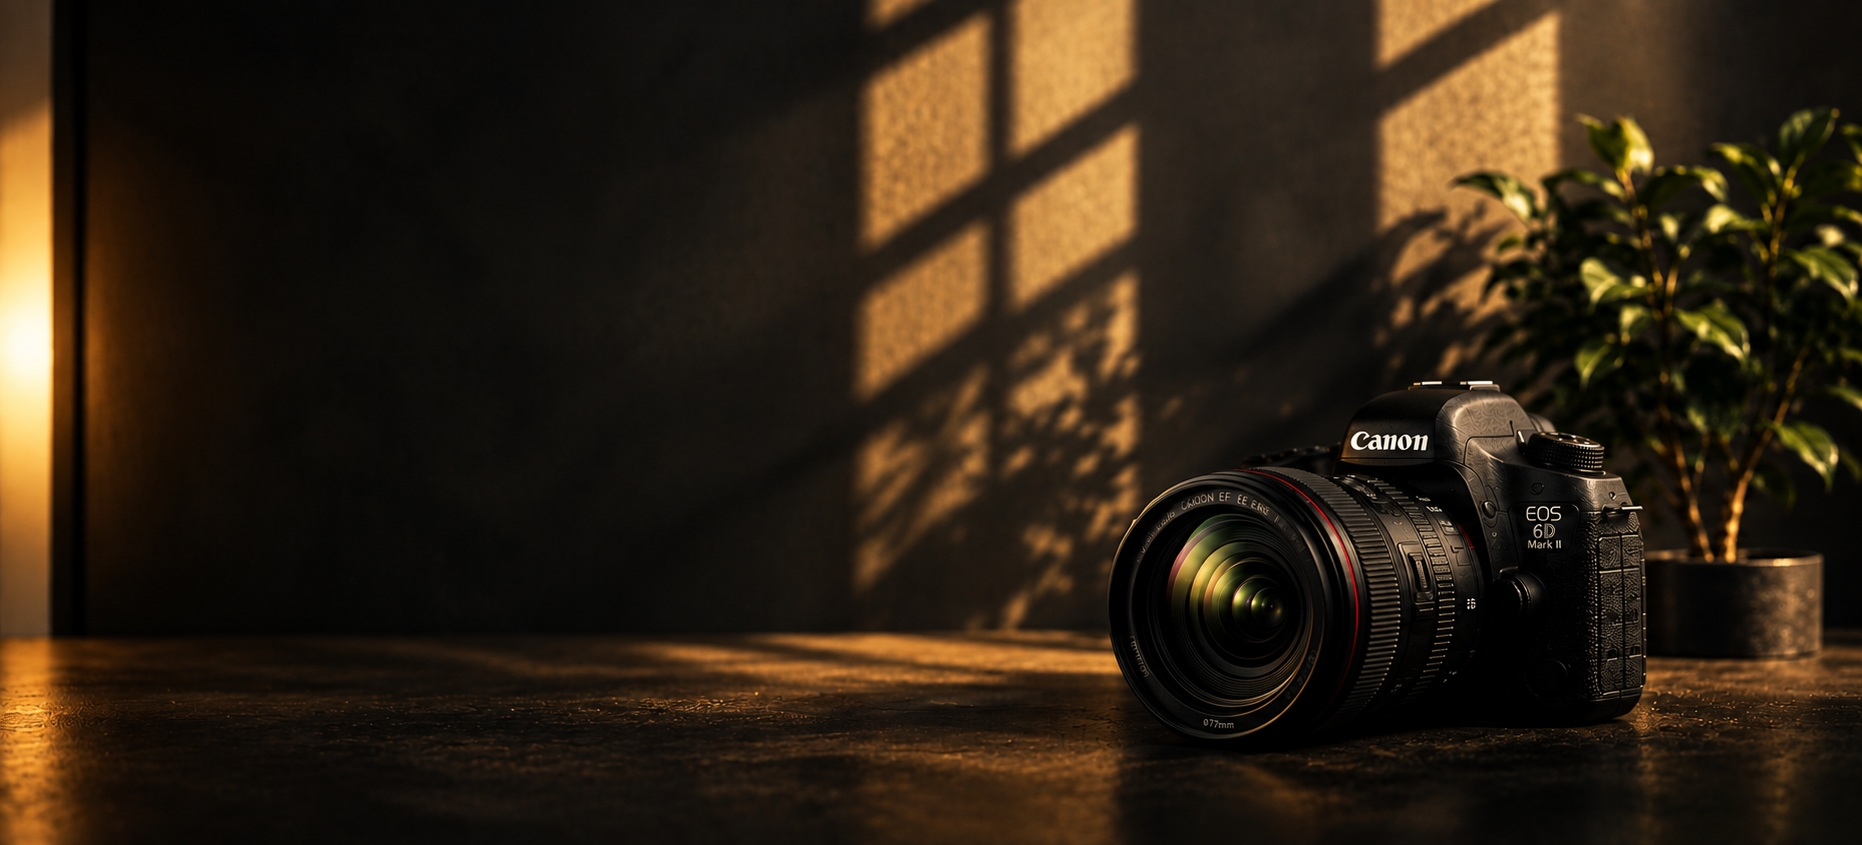
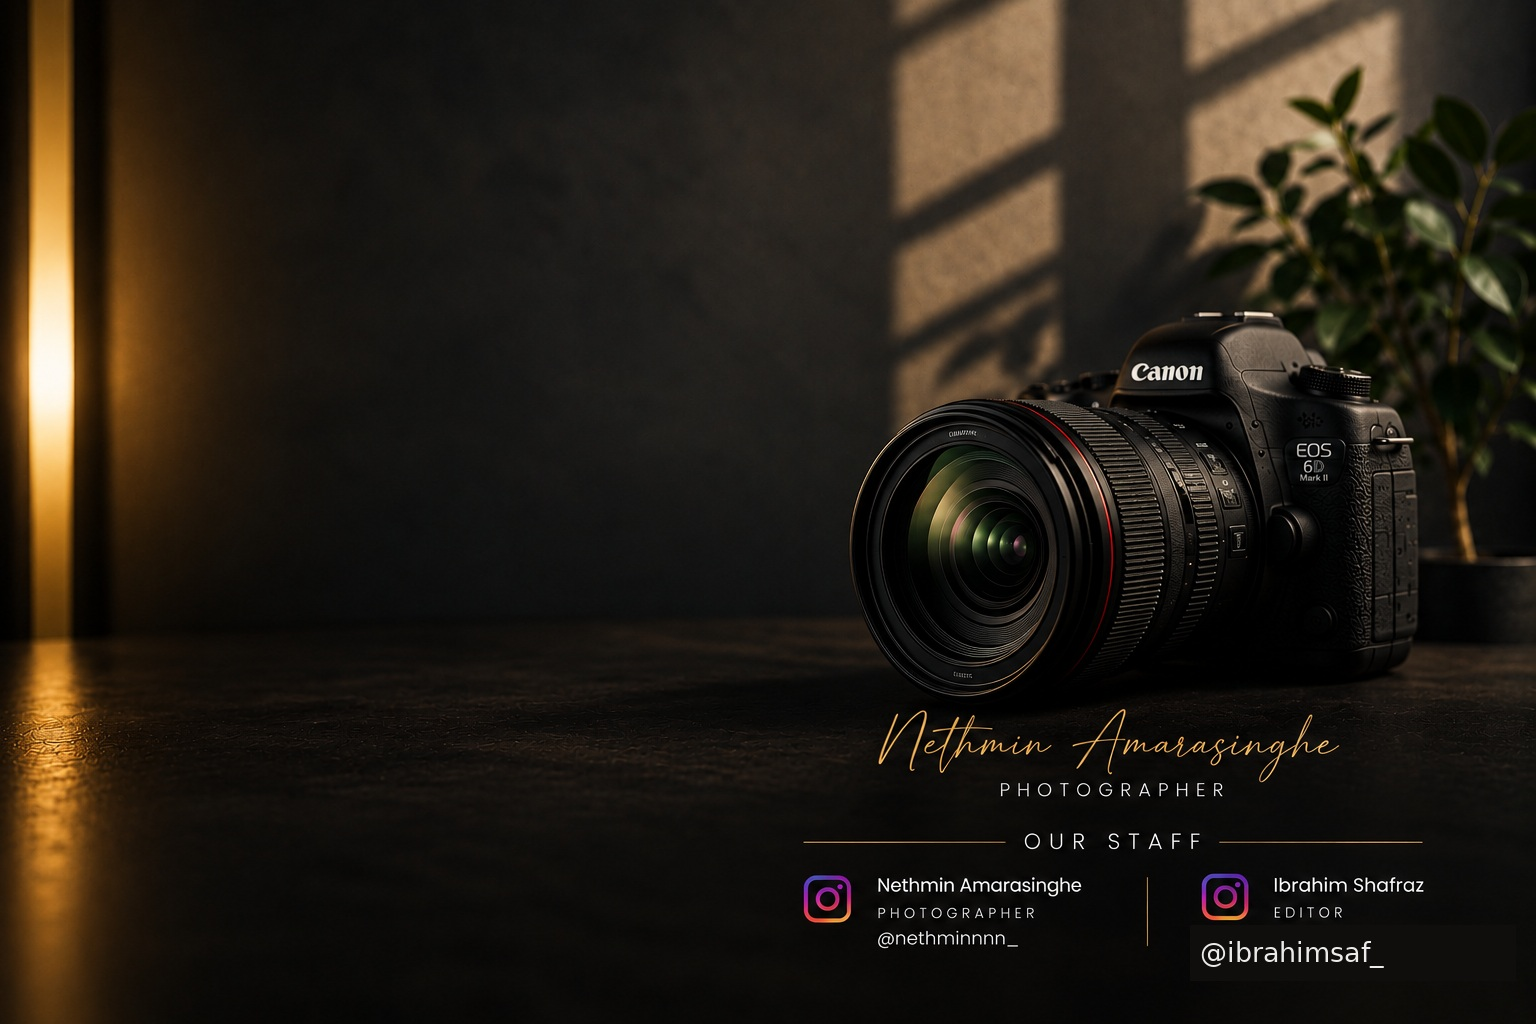
Add files via upload

diff --git a/style.css b/style.css
@@ -216,3 +216,8 @@ body.intro-lock{overflow:hidden}
     background-position:62% center !important;
   }
 }
+
+/* Supplied hero image: keep existing hero text/staff, remove decorative circles that were covering it. */
+.hero .rings,.hero .hero-glow,.hero .hero-stamp,.hero .hero-side,.hero .hero-meta,.hero .hero-scroll-ring{display:none !important}
+.hero{background:#080807 url("nnt-hero-background.jpg") center center / cover no-repeat !important}
+@media(max-width:800px){.hero{background-position:62% center !important}}

diff --git a/index.html b/index.html
@@ -123,7 +123,7 @@
           </div>
           <div class="team-person">
             <span class="team-role">CO-OWNER / EDITOR</span>
-            <h3>Ibrahim Shafraz</h3>
+            <h3>Ibrahim Safraz</h3>
             <a href="https://www.instagram.com/ibrahimsaf_?igsi=emJob3ZkYjk5OXFy" target="_blank" rel="noopener">Instagram ↗</a>
           </div>
         </div>
